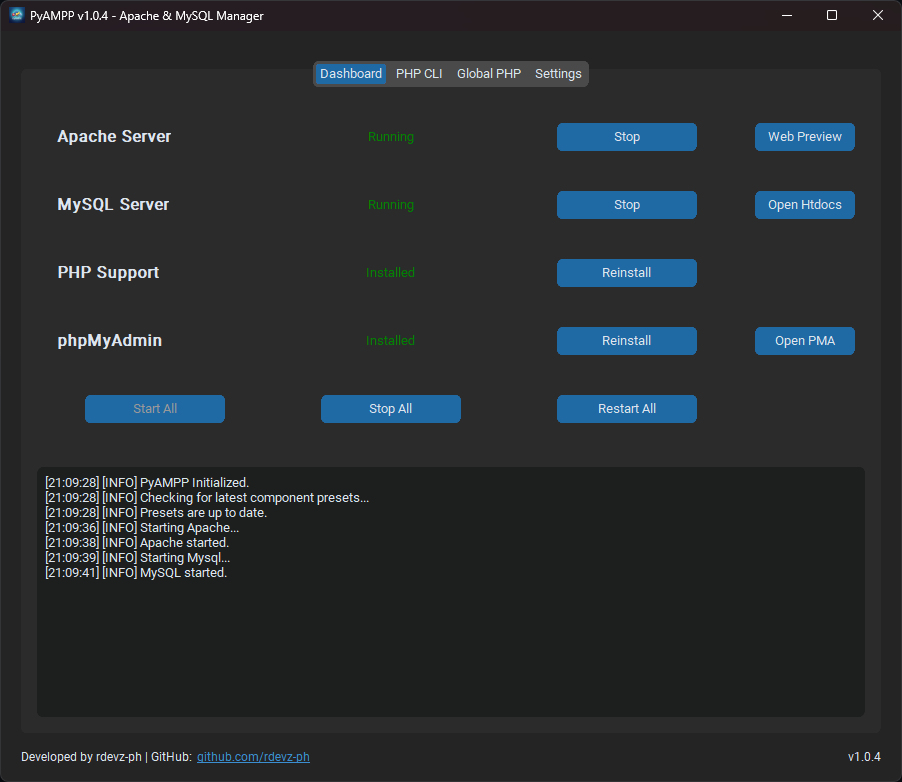
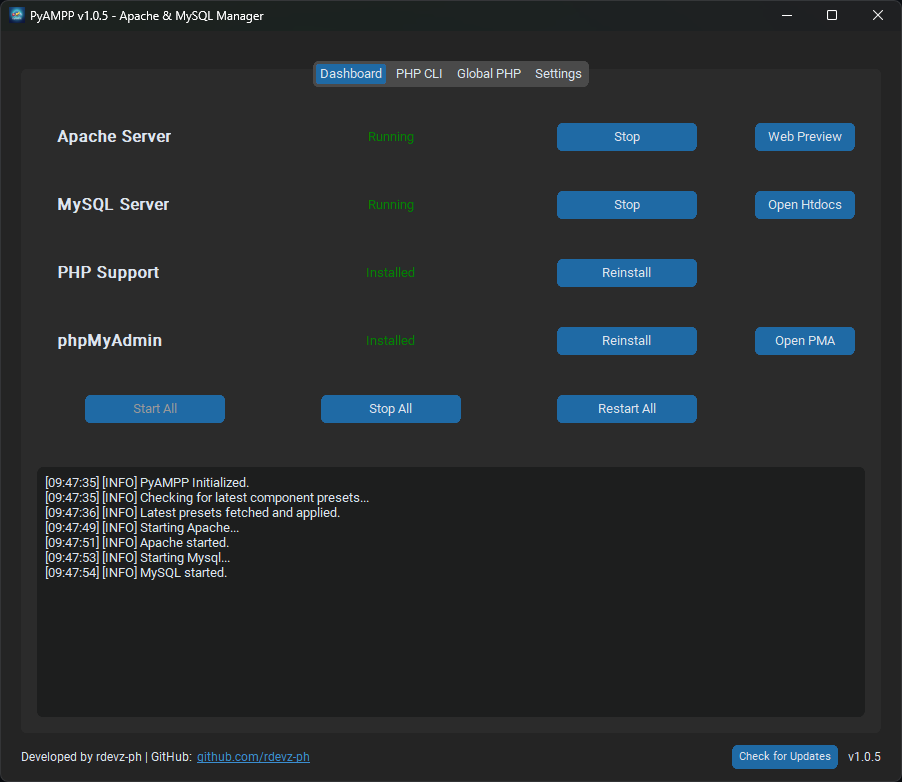
docs: update version to v1.0.5 and add PHP 8.5.5 support

Changed region(s): [[0.031, 0.6138, 0.1242, 0.7366], [0.1552, 0.6445, 0.3725, 0.6752], [0.8071, 0.9514, 0.9313, 0.9821]]

diff --git a/docs/index.html b/docs/index.html
@@ -84,7 +84,7 @@
                 <div class="feature-grid">
                     <div class="feature-card">
                         <h4>Version Preset Selection</h4>
-                        <p>Choose from a curated list of verified component versions. From legacy PHP 7.4 to the latest 8.4, PyAMPP handles the complex configuration automatically.</p>
+                        <p>Choose from a curated list of verified component versions. From legacy PHP 7.4 to the latest 8.5, PyAMPP handles the complex configuration automatically.</p>
                     </div>
                     <div class="feature-card">
                         <h4>Hardened Process Isolation</h4>
@@ -124,10 +124,10 @@
 
             <section id="presets">
                 <h2>Supported Versions (Presets)</h2>
-                <p>PyAMPP v1.0.4 supports a wide range of verified component versions out of the box. For transparency, all official binary download URLs are documented in the <code>presets.json</code> file within the repository.</p>
+                <p>PyAMPP v1.0.5 supports a wide range of verified component versions out of the box. For transparency, all official binary download URLs are documented in the <code>presets.json</code> file within the repository.</p>
                 <div class="preset-container">
                     <ul>
-                        <li><strong>PHP:</strong> 8.4.20 (VS17), 8.3.30, 8.2.30, 8.1.34, 8.0.30, 7.4.33</li>
+                        <li><strong>PHP:</strong> 8.5.5 (VS17), 8.4.20, 8.3.30, 8.2.30, 8.1.34, 8.0.30, 7.4.33</li>
                         <li><strong>Apache:</strong> 2.4.66 (VS17)</li>
                         <li><strong>MySQL:</strong> 8.4.4 (LTS), 8.0.40, 5.7.44</li>
                         <li><strong>phpMyAdmin:</strong> 5.2.3, 5.2.2, 5.2.1</li>

diff --git a/CHANGELOG.md b/CHANGELOG.md
@@ -2,6 +2,18 @@
 
 All notable changes to PyAMPP will be documented in this file.
 
+## [1.0.5] - 2026-04-27
+### Added
+* **PHP 8.5.5 Support**: Added support for the latest PHP 8.5.5 presets in the Setup Wizard and configuration engine.
+* **Application Update Notifications**: Implemented an in-app notification system that detects newer versions of PyAMPP on GitHub and provides a direct link to the latest release page.
+* **Manual Update Check Button**: Added a "Check for Updates" button to the application footer, allowing users to manually refresh presets and check for software updates at any time.
+* **Metadata Support in Presets**: The preset system now supports optional metadata (like latest version info) without impacting component lists or breaking compatibility with older application versions.
+
+### Changed
+* **Improved Preset Merging Logic**: Refactored the merging engine to ensure that newly fetched versions from the server are prioritized and appear at the top of selection menus.
+* **Consistent UI Arrangement**: Standardized the category order (PHP, Apache, MySQL, phpMyAdmin) in all configuration menus to ensure a consistent user experience.
+* **Centralized Preset Management**: Consolidated preset update logic into a unified helper function to improve maintainability and ensure UI reactivity.
+
 ## [1.0.4] - 2026-04-26
 ### Added
 * **Automated Preset Synchronization**: The application now automatically checks for and fetches the latest PHP, Apache, and MySQL version presets from GitHub on startup.

diff --git a/README.md b/README.md
@@ -40,14 +40,14 @@ The latest stable version of PyAMPP can be downloaded from the official [Release
 - **Intelligent Module Mapping:** Dynamically detects the correct PHP module name (e.g., `php7_module` vs `php_module`) based on the active version.
 
 ### Lifecycle & Version Management
-- **Version Preset Selection:** Choose specific versions for each component from a curated list of presets (from PHP 7.4 to 8.4).
+- **Version Preset Selection:** Choose specific versions for each component from a curated list of presets (from PHP 7.4 to 8.5).
 - **Smart Reinstallation & Cleanup:** Performs a clean sweep of old binaries while strictly preserving MySQL data when updating or switching versions.
 
 ## Supported Versions (Presets)
 
-PyAMPP v1.0.4 supports a wide range of verified component versions. For full transparency, you can verify all official binary download URLs in the [presets.json](presets.json) file:
+PyAMPP v1.0.5 supports a wide range of verified component versions. For full transparency, you can verify all official binary download URLs in the [presets.json](presets.json) file:
 
-- **PHP:** 8.4.20 (VS17), 8.3.30, 8.2.30, 8.1.34, 8.0.30, and 7.4.33 (Archive).
+- **PHP:** 8.5.5 (VS17), 8.4.20, 8.3.30, 8.2.30, 8.1.34, 8.0.30, and 7.4.33 (Archive).
 - **Apache:** 2.4.66 (VS17).
 - **MySQL:** 8.4.4 (LTS), 8.0.40, 5.7.44.
 - **phpMyAdmin:** 5.2.3, 5.2.2, 5.2.1.
